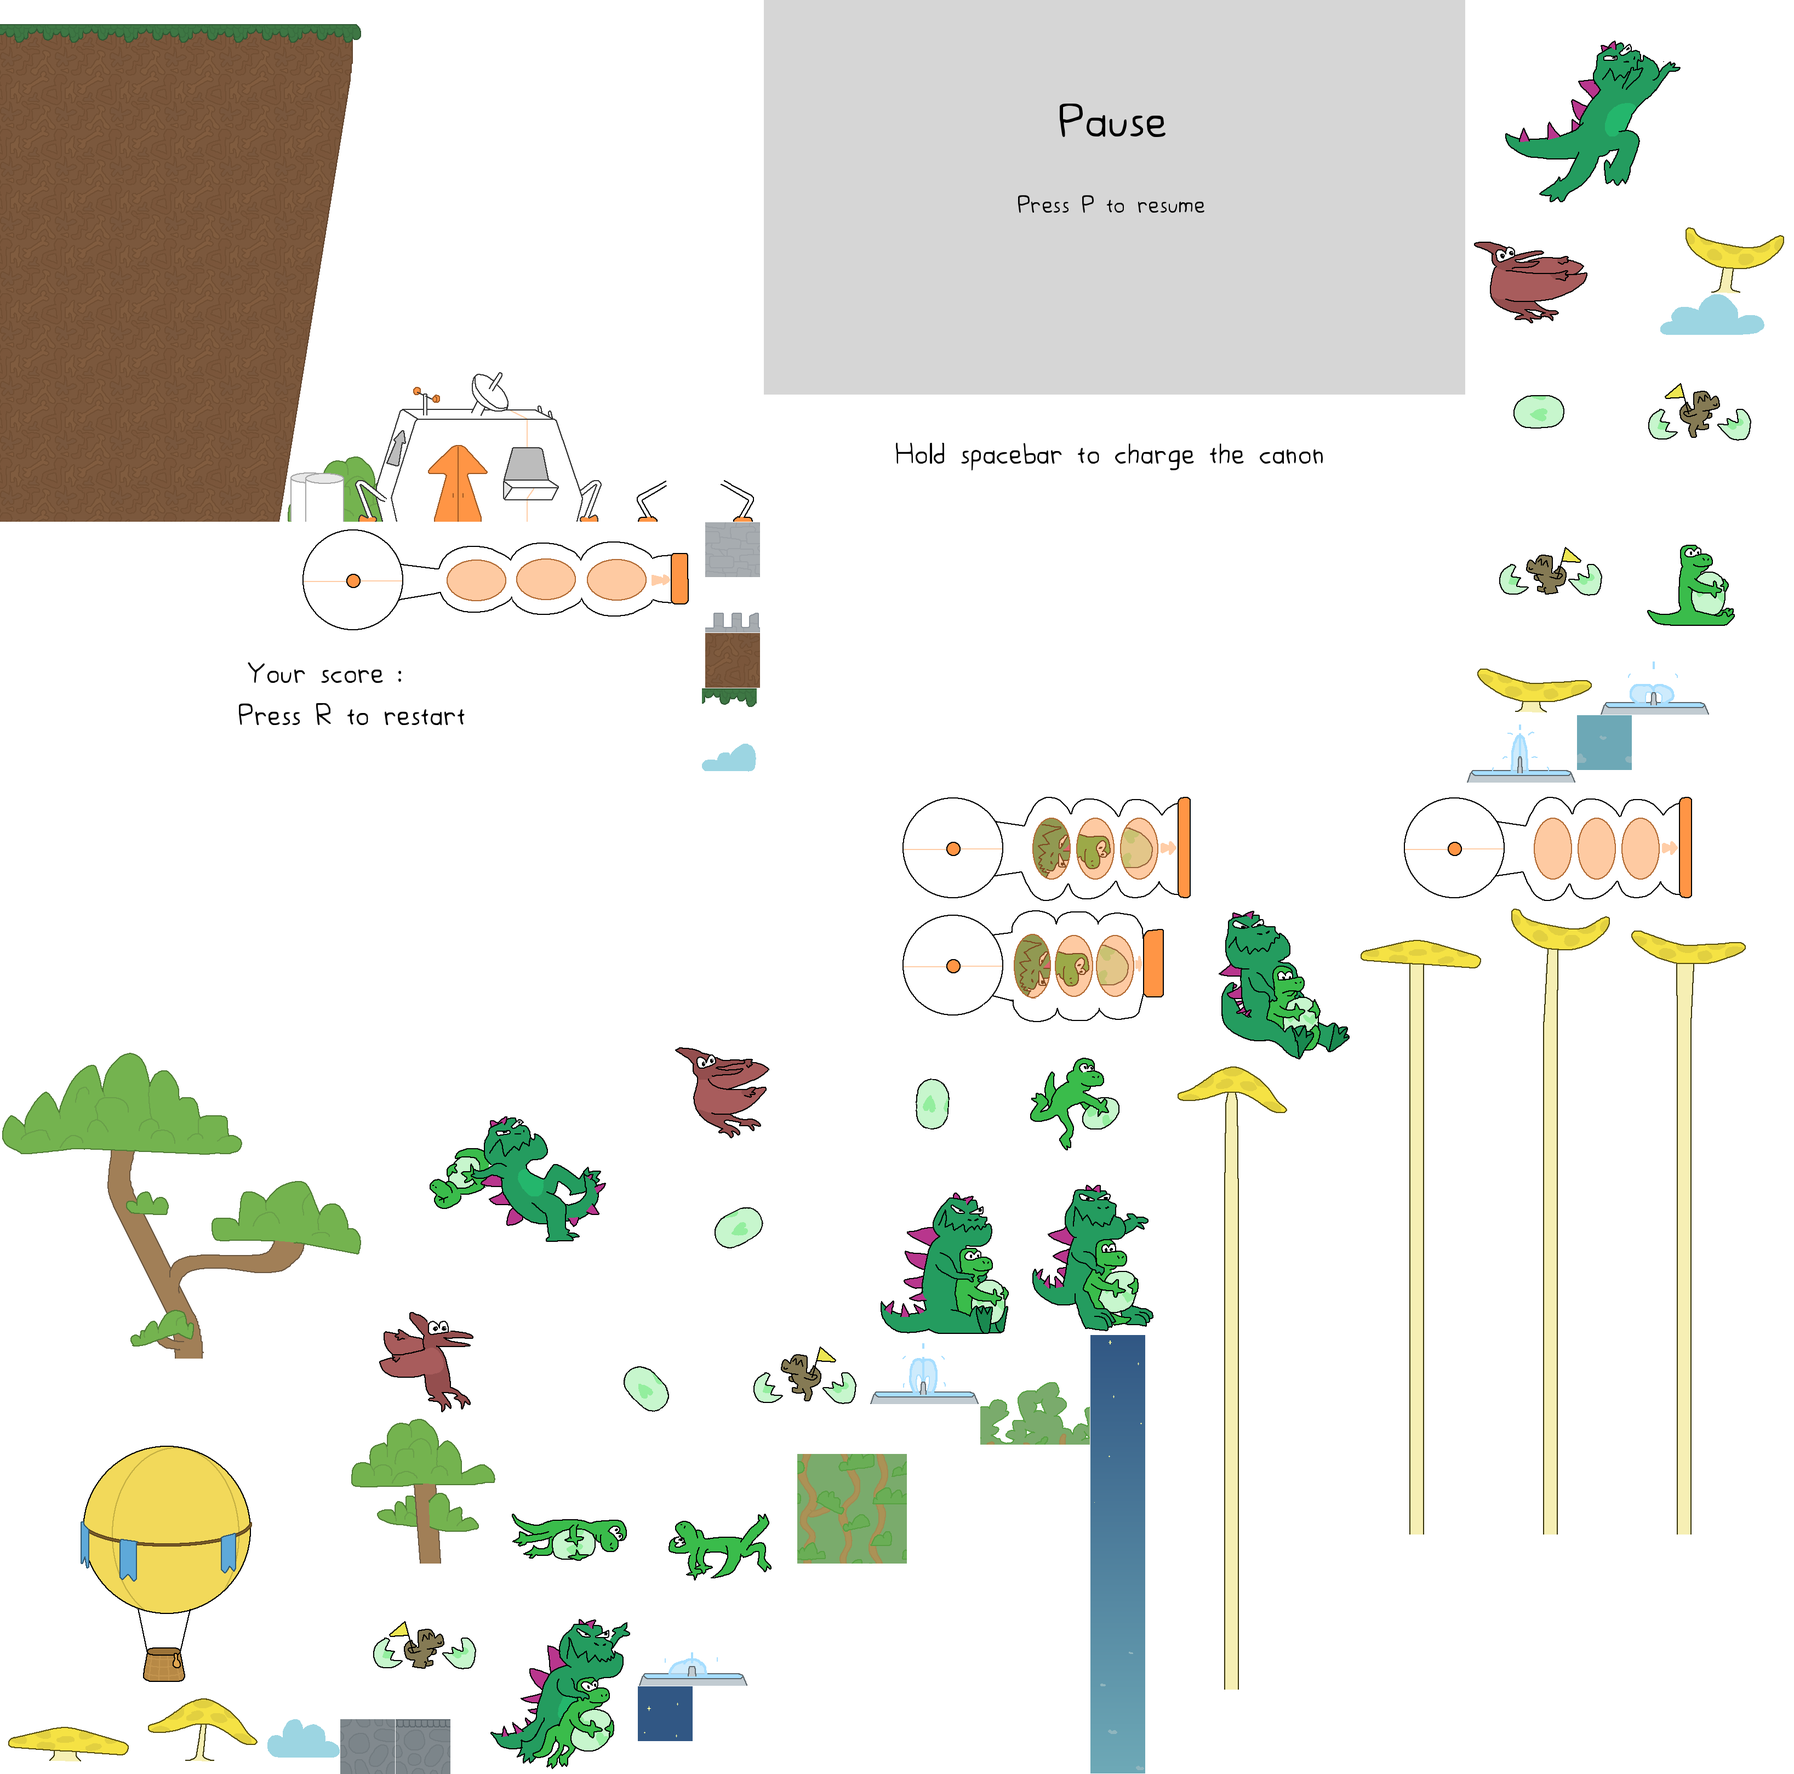
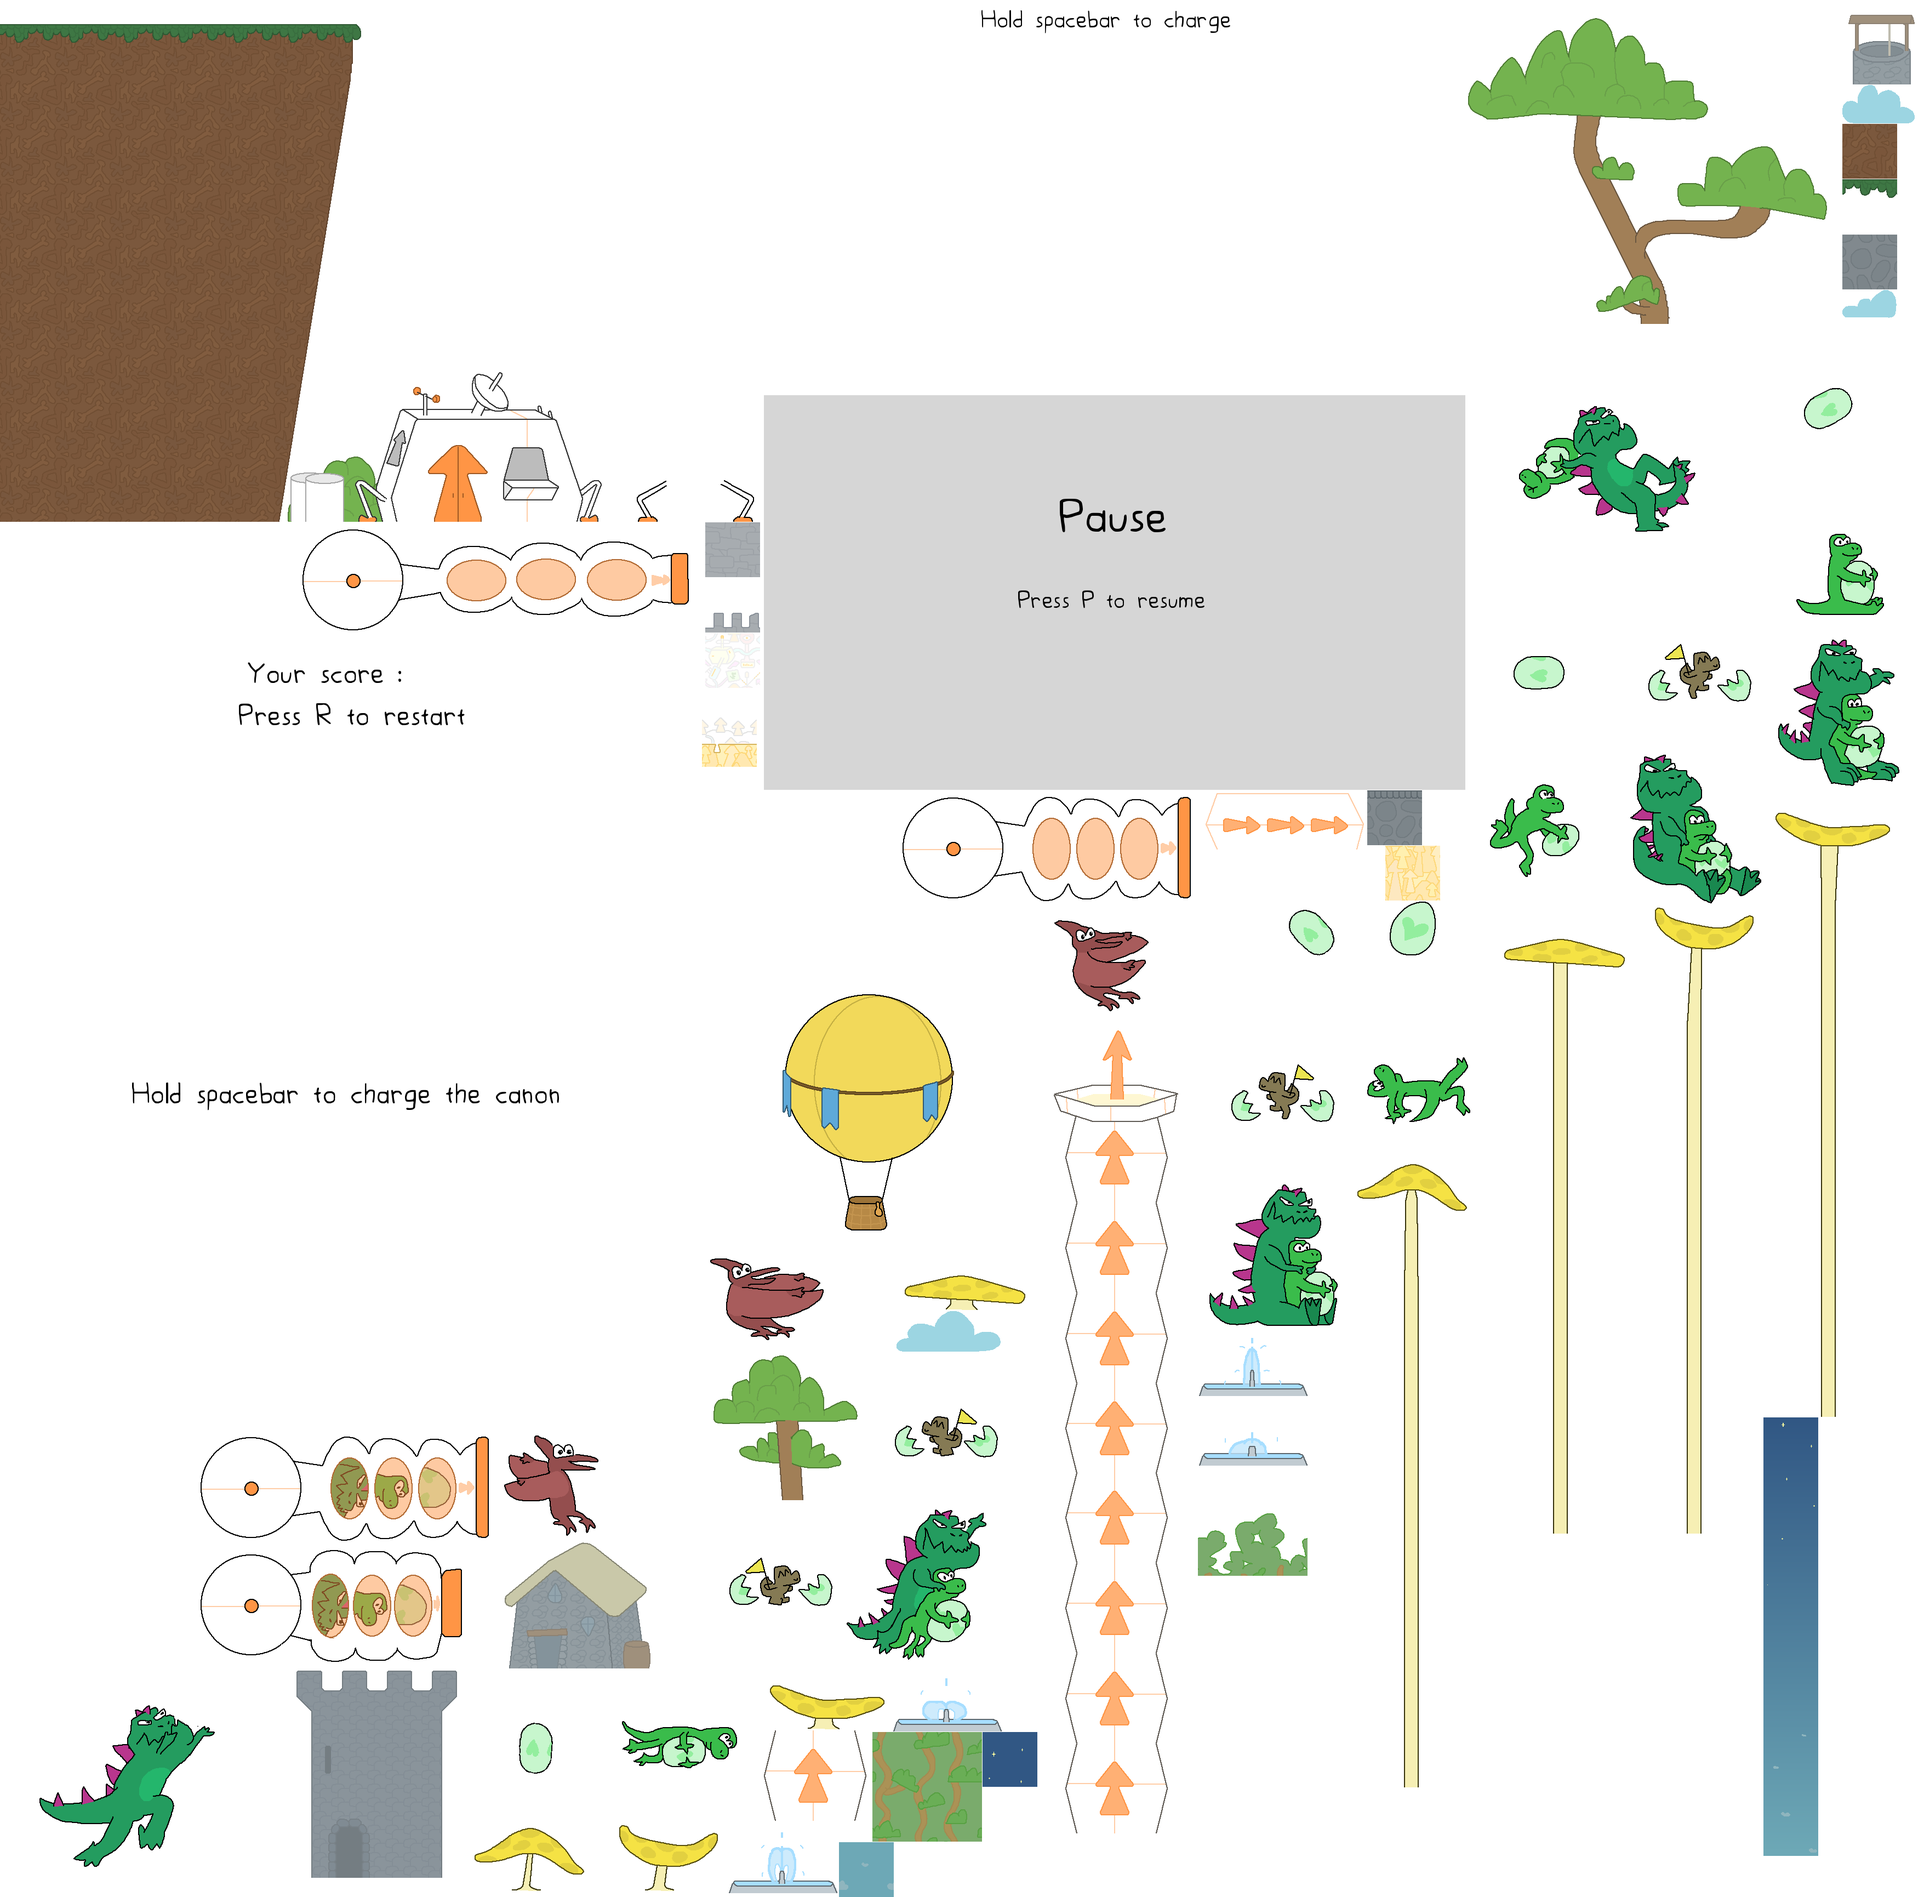
Add future and middle age sprites, info overlay

diff --git a/Components/Player.cs b/Components/Player.cs
@@ -27,6 +27,8 @@ public class Player : Component, IUpdatable
     {
         base.OnAddedToEntity();
 
+        Game.player = this;
+
         var collider = Entity.AddComponent(new BoxCollider(Box3.X, Box3.Y));
         collider.ShouldColliderScaleAndRotateWithTransform = false;
         mover = Entity.AddComponent(new Mover());
@@ -71,7 +73,7 @@ public class Player : Component, IUpdatable
 
     internal bool IsThrowing()
     {
-        return (fsm.CurrentState is Throwing_2State || fsm.CurrentState is Throwing_3State);
+        return (fsm.CurrentState is Throwing_2State || fsm.CurrentState is Throwing_3State || fsm.CurrentState is ThrowingState || fsm.CurrentState is NotThrownState);
     }
 
     internal int DinoCount()

diff --git a/Components/Overlay.cs b/Components/Overlay.cs
@@ -45,6 +45,7 @@ public class Overlay : Component, IUpdatable
         overlays = new[] {
             new SpriteOverlay(Entity, "waiting_overlay", () => Game.State == GameState.Waiting, () => Game.State != GameState.Waiting),
             new SpriteOverlay(Entity, "pause_overlay", () => Game.IsPaused, () => !Game.IsPaused),
+            new SpriteOverlay(Entity, "hold_space_overlay", () => Game.player.DinoCount()>1 && !Game.player.IsThrowing(), () => Game.player.IsThrowing() || Game.player.DinoCount() == 1),
             new SpriteOverlay(Entity, "gameover_overlay", () => Game.State == GameState.Over, () => Game.State != GameState.Over)
         };
     }

diff --git a/Game.cs b/Game.cs
@@ -21,6 +21,7 @@ public class Game : Core
     public static SpriteAtlas Atlas;
     public static GameState State;
     public static int Score;
+    public static Player player;
 
     protected override void Initialize()
     {
